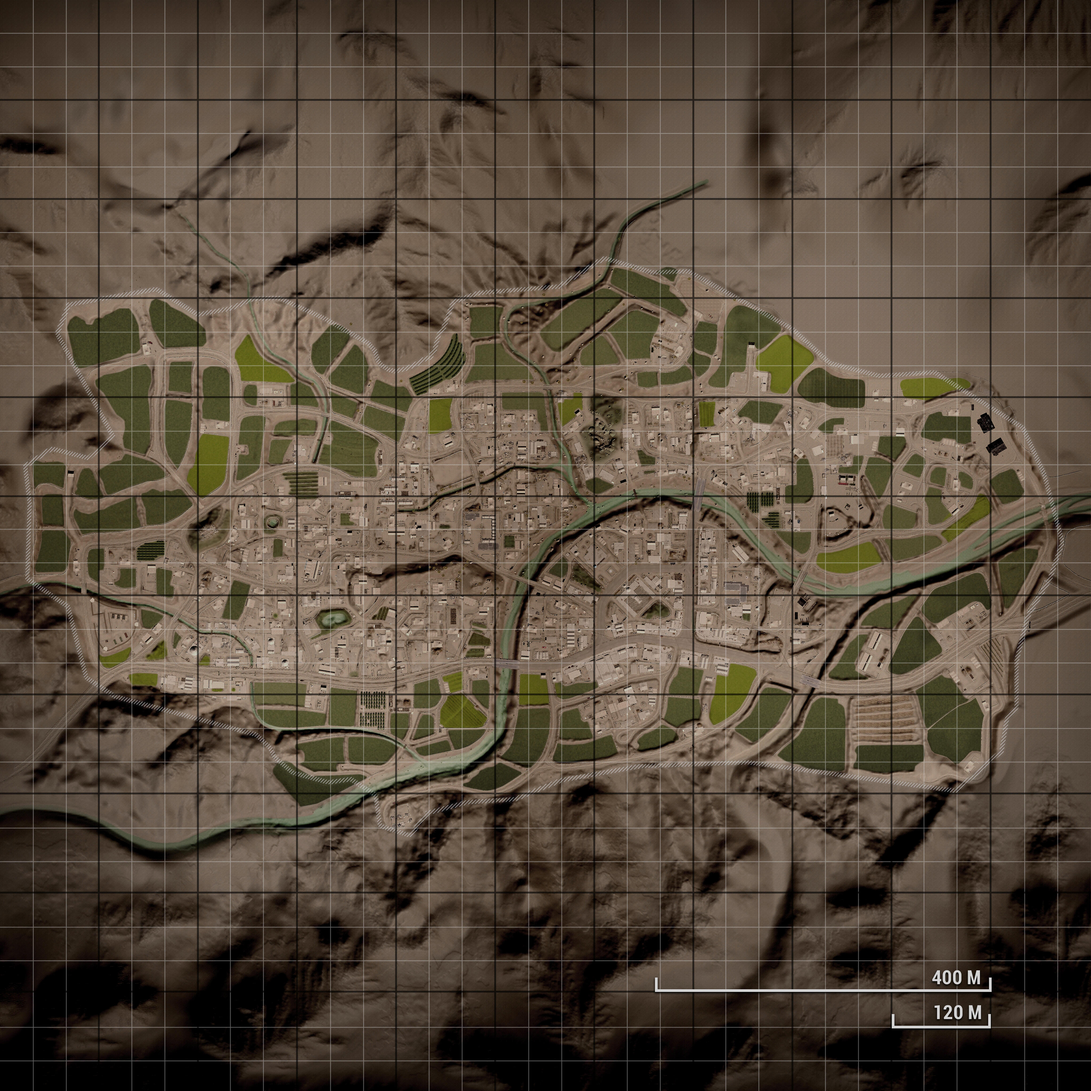
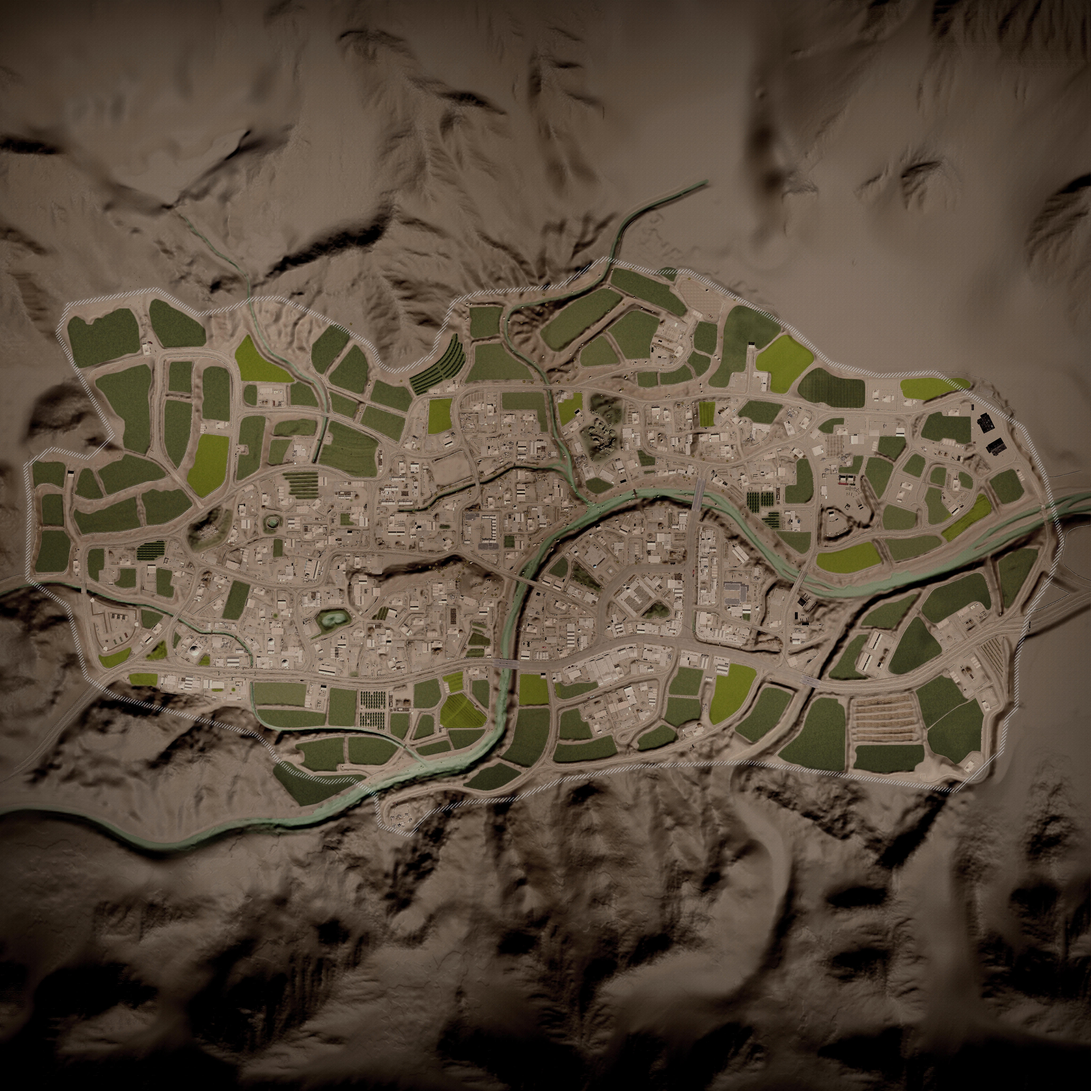
Updated squad grids by Sergei
Former-commit-id: 31b5c855c69ea4db1671b33f5132c221ba7bfe12 [formerly da6b64d1f8d6c643c20a7ba55949867a4d835e35] [formerly ad8fd36f5365eba53e1cd70fbd6cdc7a53f30caf [formerly a5d45a688eb0c7a500666c7d356a62e94bf3b514]]
Former-commit-id: f815cbb94bd6b0c633074086a2f56fe51268a27f [formerly bd4cb9c127e874ff65f75377355429c71160a335]
Former-commit-id: 3a71e3e7fcaaa25c56aff644d3e379009d9a8c5f

diff --git a/app.js b/app.js
@@ -324,7 +324,7 @@ MongoClient.connect('mongodb://'+connection_string, function(err, db) {
 	app.use(passport.session());
 	
 	//create a default user + detect language
-	app.use(function(req, res, next) { 
+	app.use(function(req, res, next) {
 		var domain = req.headers.host;
 		var subDomain = domain.split('.');	
 		if (subDomain[0] == 'www') {
@@ -351,7 +351,9 @@ MongoClient.connect('mongodb://'+connection_string, function(err, db) {
 		if (req.query.game) {
 			set_game(req, res, req.query.game)
 		}	
-		req.fullUrl = subDomain.join('.') + req.originalUrl;
+		req.fullUrl = subDomain.join('.') + req.originalUrl;		
+		req.session.last_login = Date();
+		req.session.touch();
 		next();
 	});
 	

diff --git a/public/nortonsw_e32d2030-1cc4-0.html b/public/nortonsw_e32d2030-1cc4-0.html
@@ -1,0 +1,3 @@
+
+<!-- saved from url=(0062)file:///C:/Users/pkali/Downloads/nortonsw_e32d2030-1cc4-0.html -->
+<html><head><meta http-equiv="Content-Type" content="text/html; charset=windows-1252"></head><body>r3ak8lu6d0msg1ixxwq23zlkojnn29a63-5uvl8kythknmsgwuhdgzplzeejhe49t9m87j7g-e3p7xawla0mor34wp0o7ehh98ocyw-9qouafw8hl4oxcyx5gshzcb1m</body></html>
